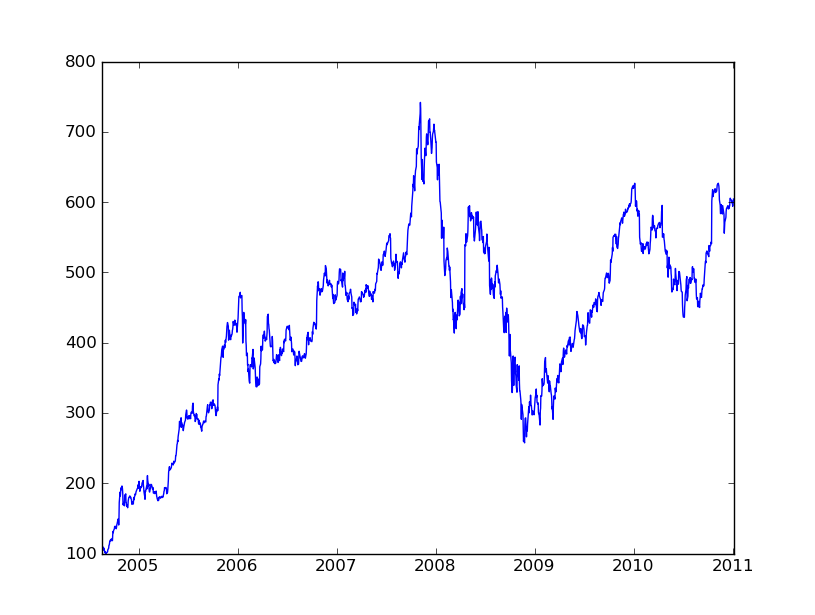
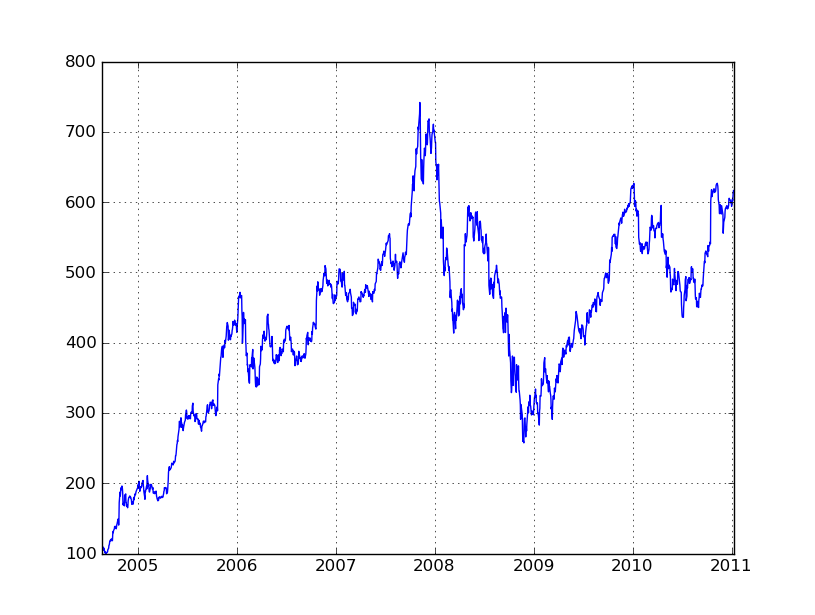
plot grid graph, refactory data structure returned by yahoo financial.
git-svn-id: https://ultra-finance.googlecode.com/svn/trunk@43 4d73ce26-f01c-a35a-b3e1-28a64a014117

diff --git a/trunk/src/lib/StockMeasurement.py b/trunk/src/lib/StockMeasurement.py
@@ -3,39 +3,33 @@ Created on Jan 3, 2011
 
 @author: ppa
 '''
-from scipy import polyval, polyfit
+from scipy import polyfit
 from lib.YahooFinance import YahooFinance
-from operator import itemgetter
 import numpy
 
 class StockMeasurement():
     ''' measurement of a single stock/index '''
     def __init__(self, dateValues):
         ''' constructor '''
-        print dateValues
-        self.__dates = [dateValue[0] for dateValue in dateValues]
-        self.__values = [dateValue[1] for dateValue in dateValues]
+        self.__dateValues = dateValues
         self.__benchmarkValues = None
         self.__alpha = None
         self.__beta = None
         
     def mean(self):
         ''' get average '''
-        return numpy.mean([float(value[0]) for value in self.__values], axis=0)
+        return numpy.mean([float(dateValues.close) for dateValues in self.__dateValues], axis=0)
         
     def std(self):
         ''' get standard deviation '''
-        return numpy.std([float(value[0]) for value in self.__values], axis=0)
+        return numpy.std([float(dateValues.close) for dateValues in self.__dateValues], axis=0)
     
-    def linearRegression(self, benchmark='SPY'):
-        print "hello %s" %self.__dates[0]
-        dateValues = YahooFinance().get_dates_values(benchmark, self.__dates[0], self.__dates[-1])
-        if len(dateValues) == len(self.__dates):
-            self.__benchmarkValues = [dateValue[1] for dateValue in dateValues]
-            
-            x = [float(self.__benchmarkValues[index + 1][1])/float(self.__benchmarkValues[index + 1][0]) for index in range(len(dateValues) - 1)]
-            y = [float(self.__values[index + 1][1])/float(self.__values[index + 1][0]) for index in range(len(dateValues) - 1)]
-            (self.__alpha, self.__beta) = polyfit(x, y, 1)
+    def linearRegression(self, benchmark='^GSPC'):
+        self.__benchmarkValues = YahooFinance().get_historical_prices(benchmark, self.__dateValues[0].date, self.__dateValues[-1].date)
+        if len(self.__benchmarkValues) == len(self.__dateValues):
+            x = [float(self.__benchmarkValues[index + 1].adjClose)/float(self.__benchmarkValues[index].adjClose) for index in range(len(self.__benchmarkValues) - 1)]
+            y = [float(self.__dateValues[index + 1].adjClose)/float(self.__dateValues[index].adjClose) for index in range(len(self.__benchmarkValues) - 1)]
+            (self.__beta, self.__alpha) = polyfit(x, y, 1)
         else:
             print 'benchmark %s don\'t have enough data' % benchmark
  

diff --git a/trunk/src/lib/YahooFinance.py b/trunk/src/lib/YahooFinance.py
@@ -10,6 +10,7 @@ sample usage:
 529.46
 '''
 import urllib
+from collections import namedtuple
 from operator import itemgetter
 
 class YahooFinance():
@@ -109,10 +110,13 @@ class YahooFinance():
     def get_historical_prices(self, symbol, start_date, end_date):
         """
         Get historical prices for the given ticker symbol.
-        Date format is 'YYYYMMDD'
+        Date format is 'YYYY-MM-DD'
     
         Returns a nested list.
         """
+        start_date = str(start_date).replace('-', '')
+        end_date = str(end_date).replace('-', '')
+
         url = 'http://ichart.yahoo.com/table.csv?s=%s&' % symbol + \
             'd=%s&' % str(int(end_date[4:6]) - 1) + \
             'e=%s&' % str(int(end_date[6:8])) + \
@@ -123,20 +127,20 @@ class YahooFinance():
             'c=%s&' % str(int(start_date[0:4])) + \
             'ignore=.csv'
         days = urllib.urlopen(url).readlines()
-        data = [day[:-2].split(',') for day in days]
-        return data
-
-    def get_dates_values(self, symbol, start_date, end_date):
-        values = self.get_historical_prices(symbol, \
-                                            str(start_date).replace('-', ''), 
-                                            str(end_date).replace('-', ''))
-        data = {}
-        for value in values[1:]:
-            data[value[0]] = (value[4], value[6])
+        values = [day[:-2].split(',') for day in days]
+        # sample values:[['Date', 'Open', 'High', 'Low', 'Close', 'Volume', 'Adj Clos'], \
+        #              ['2009-12-31', '112.77', '112.80', '111.39', '111.44', '90637900', '109.7']...]
         
-        dateValues = sorted(data.items(), key=itemgetter(0))
+        stockDaylyData = namedtuple('stockDaylyData', 'date, open, high, low, close, volume, adjClose') 
+        data = []       
+        for value in values[1:]:
+            data.append(stockDaylyData(value[0], value[1], value[2], value[3], value[4], value[5], value[6]))
+        
+        dateValues = sorted(data, key=itemgetter(0))
         return dateValues
+        #sample output
+        #[stockDaylyData(date='2010-01-04, open='112.37', high='113.39', low='111.51', close='113.33', volume='118944600', adjClose='111.6'))...]
 
 if __name__ == '__main__':
     yahooFinance = YahooFinance()
-    print yahooFinance.get_historical_prices('SPY', '199000101', '20100101')
+    print yahooFinance.get_historical_prices('SPY', '20100101', '20101201')

diff --git a/trunk/src/outputer/PlotOutputer.py b/trunk/src/outputer/PlotOutputer.py
@@ -17,12 +17,14 @@ class PlotOutputer(BaseModule):
         
     def execute(self, dateValues):
         ''' do output '''
-        #dateValues = sorted(input.items(), key=itemgetter(0))
+        print 'dateValues'
+        print dateValues
         super(PlotOutputer, self).execute(input)
         fig = pylab.figure()
         ax = fig.gca()
  
         # Plotting here ...
-        ax.plot_date([datetime.strptime(dateValue[0], '%Y-%m-%d') for dateValue in dateValues], \
-                     [dateValue[1] for dateValue in dateValues], fmt='b-')
+        ax.plot_date([datetime.strptime(dateValue.date, '%Y-%m-%d') for dateValue in dateValues], \
+                     [dateValue.adjClose for dateValue in dateValues], fmt='b-')
+        pylab.grid()
         pyplot.show()

diff --git a/trunk/src/feeder/HistoricalDataFeeder.py b/trunk/src/feeder/HistoricalDataFeeder.py
@@ -20,6 +20,4 @@ class HistoricalDataFeeder(BaseModule):
     def execute(self, input):
         ''' preparing data'''
         super(HistoricalDataFeeder, self).execute(input)
-        #print self.__yahooFinance.get_price(self.__symbol)
-        return self.__yahooFinance.get_dates_values(input, '1990-01-01', date.today())
-        #return [(date, value[0]) for date, value in dateValues]
+        return self.__yahooFinance.get_historical_prices(input, '1990-01-01', date.today())

diff --git a/trunk/src/processor/DefaultProcessor.py b/trunk/src/processor/DefaultProcessor.py
@@ -13,5 +13,4 @@ class DefaultProcessor(BaseModule):
     def execute(self, input):
         ''' processing data'''
         super(DefaultProcessor, self).execute(input)
-        return [(date, value[0]) for date, value in input]
-        #return input
+        return input
